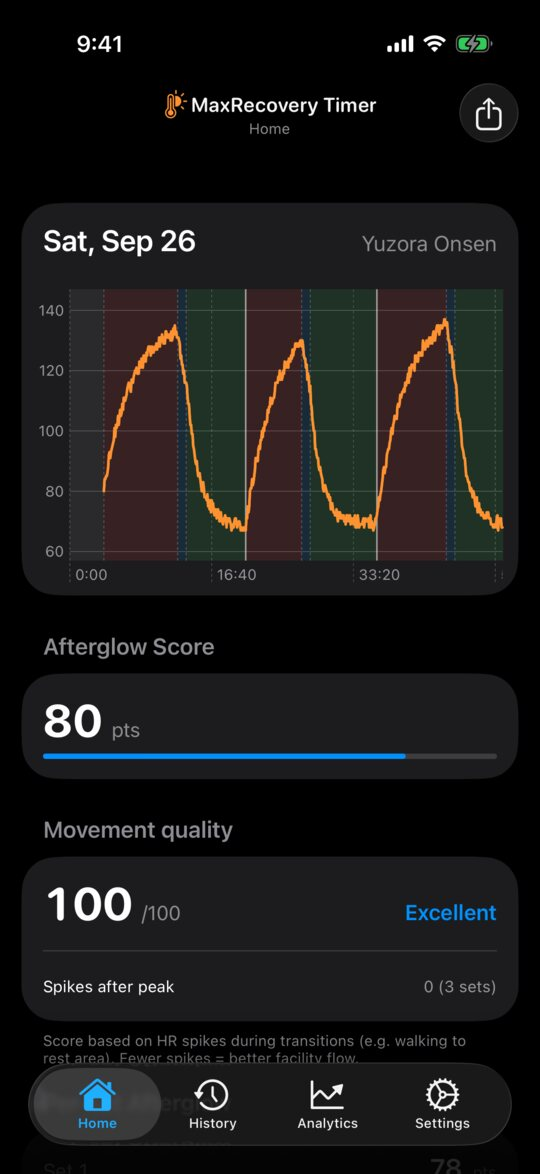
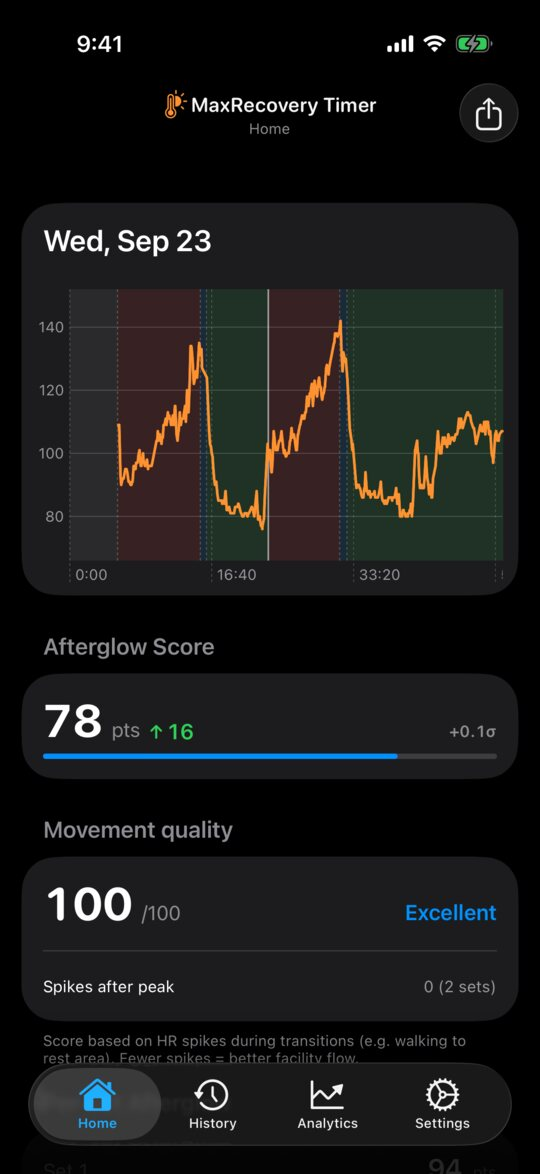
docs(guide): 画面と PDF 見本を実データ（店名だけ架空）に差し替え
架空データは整いすぎて不自然だったため、実際の記録（CSV 書き出し）を取り込み、
店名だけ架空の名前に置き換えて撮り直した。PDF は 2026/5/5〜6/5 の期間。

diff --git a/guide-en.md b/guide-en.md
@@ -94,7 +94,7 @@ Open MaxRecovery on your Apple Watch and tap **Start Standard** or
 <p align="center"><img src="images/guide/en/iphone_analytics.jpg" width="200" alt="Analytics tab"></p>
 
 <p align="center"><a href="images/guide/en/report_p1.jpg"><img src="images/guide/en/report_p1.jpg" width="140" alt="PDF report page 1" style="border:1px solid #ddd"></a> <a href="images/guide/en/report_p2.jpg"><img src="images/guide/en/report_p2.jpg" width="140" alt="PDF report page 2" style="border:1px solid #ddd"></a> <a href="images/guide/en/report_p3.jpg"><img src="images/guide/en/report_p3.jpg" width="140" alt="PDF report page 3" style="border:1px solid #ddd"></a></p>
-<p align="center"><sub>Sample PDF report (fictional data, all 3 pages). Tap to enlarge</sub></p>
+<p align="center"><sub>Sample PDF report (venue names are fictional; all 3 pages). Tap to enlarge</sub></p>
 
 ### 7. Tips
 
